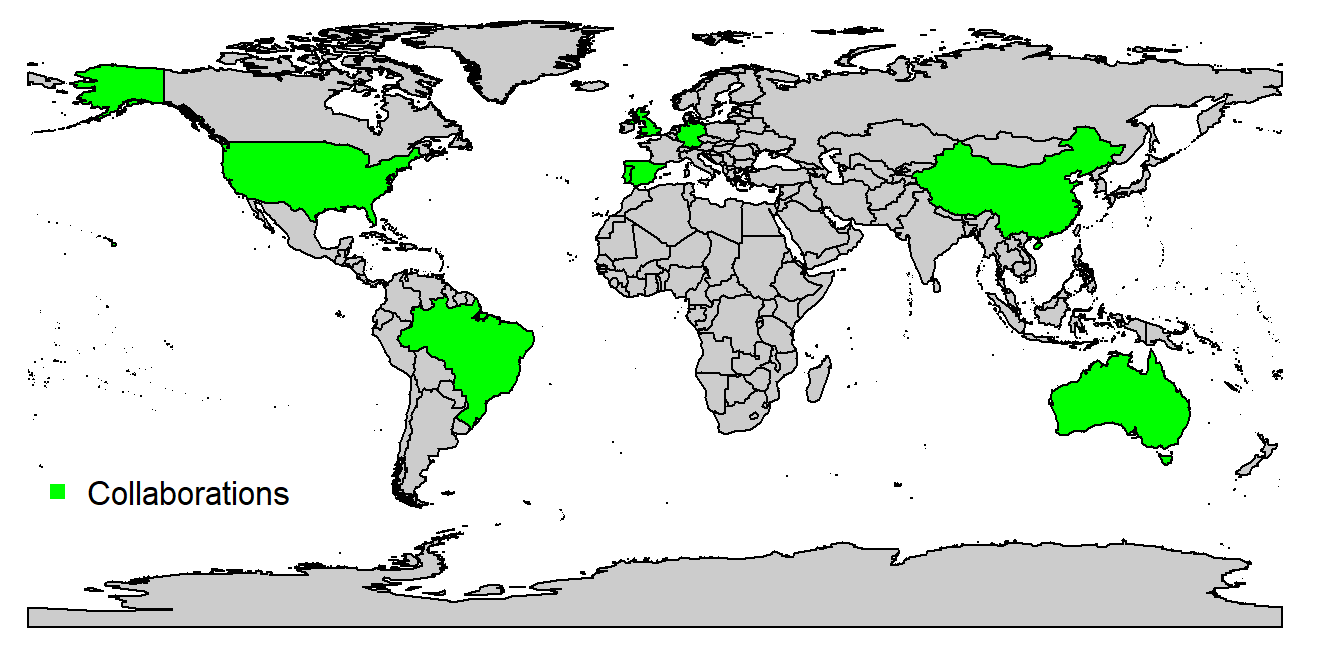
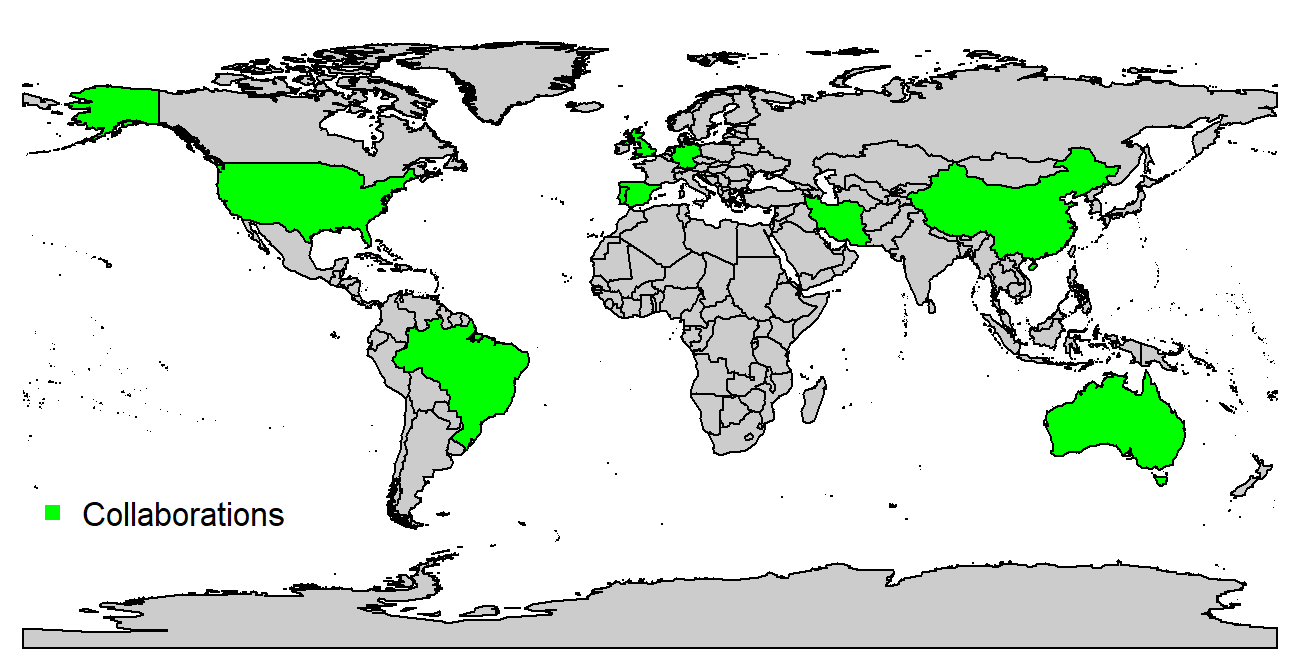
map updated

diff --git a/research.html b/research.html
@@ -392,6 +392,15 @@ Sciences, University of Florida, Gainesville, FL 32611 USA;
 </tr>
 
 <tr>      
+    <td> <h2 style="width:500px;border: 2px solid transparent">Hooman Latifi</h2></td>
+    <td style="width:100px;"></td>
+    <td style="color:black;font-size: 25px; width:1000px;text-align: left;background:transparent;">  
+    Department of Photogrammetry and Remote Sensing - Faculty of Geodesy and Geomatics Engineering
+K. N. Toosi University of Technology -No. 1346, Valiasr Str., Mirdamad crossing, Iran;
+    </td>
+</tr>
+
+<tr>      
     <td> <h2 style="width:500px;border: 2px solid transparent" >Jason Vogel</h2></td>
     <td style="width:100px;"></td>
     <td style="color:black;font-size: 25px; width:1000px;text-align: left;background:transparent;">  
@@ -606,7 +615,7 @@ State University (UDESC), Lages, SC, Brazil;
         </div>
         </div>
         
-      <div class="content2" style="margin-left:775px; width: 1025px;height:7000px;border: 2px solid transparent;margin-top:-855px;">
+      <div class="content2" style="margin-left:775px; width: 1025px;height:6900px;border: 2px solid transparent;margin-top:-855px;">
         
          <div id="menu">
      <ul>
@@ -637,7 +646,7 @@ State University (UDESC), Lages, SC, Brazil;
      width = 8, height = 6, units = 'in', res = 200)
 library(maptools)
 data(wrld_simpl)
-myCountries = wrld_simpl@data$NAME %in% c("Australia","Brazil", "United Kingdom", "Germany", "United States", "Portugal", "Spain", "China")
+myCountries = wrld_simpl@data$NAME %in% c("Australia","Brazil", "United Kingdom", "Germany", "United States", "Portugal", "Spain", "China", "Iran (Islamic Republic of)")
 plot(wrld_simpl, col = c(gray(.80), "green")[myCountries+1])
 legend(-180,-40, legend="Collaborations", bty="n",col="green", pch=15)
 dev.off()-->
